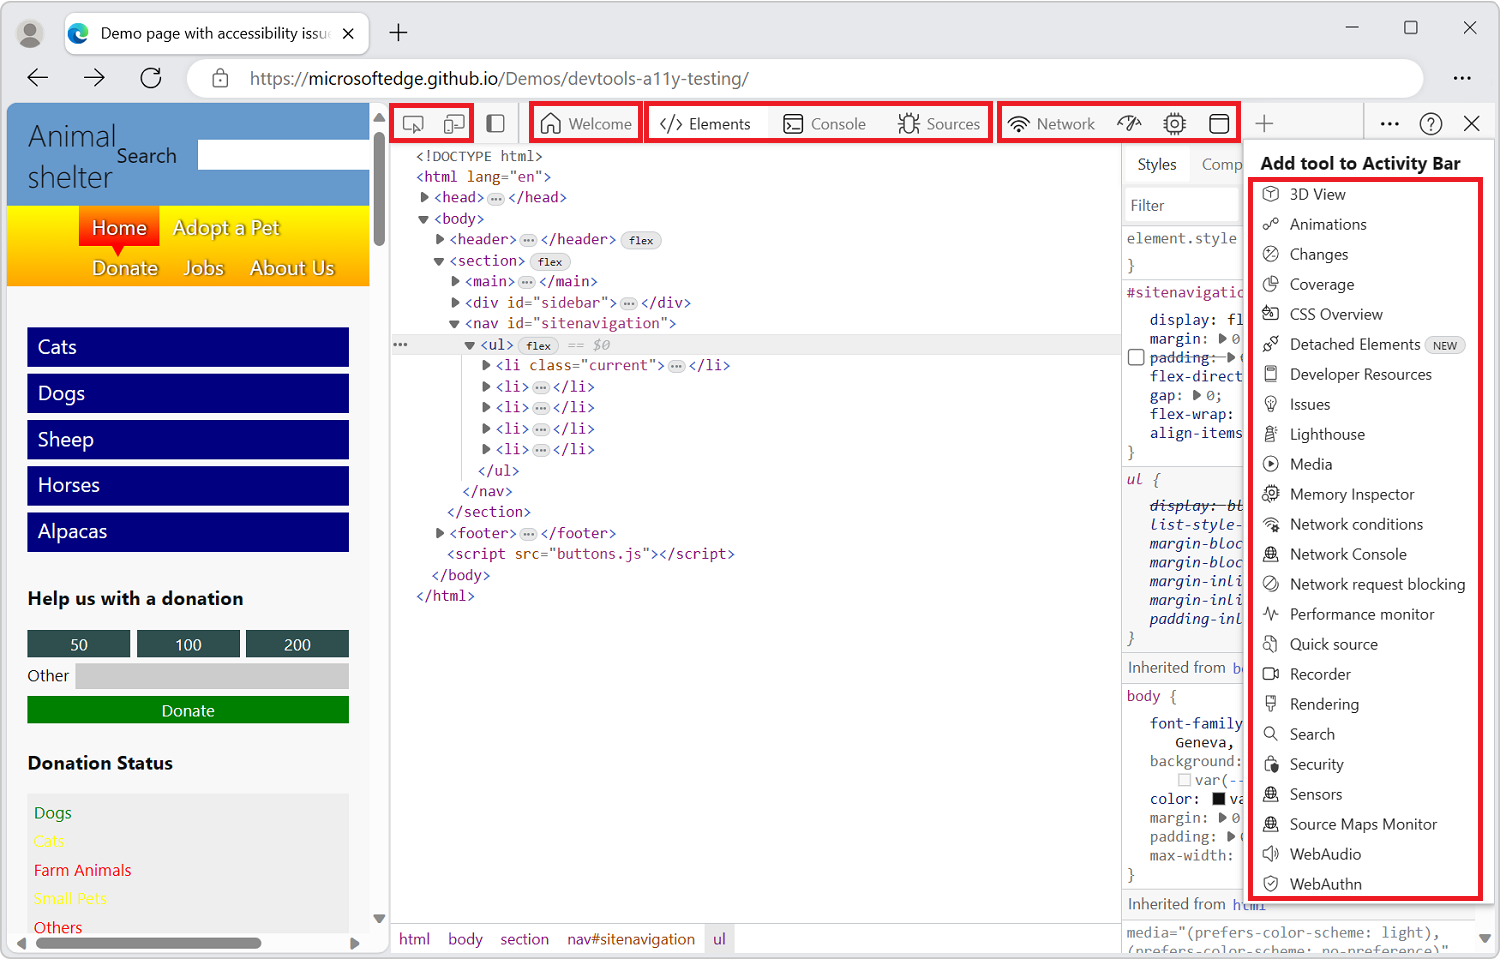
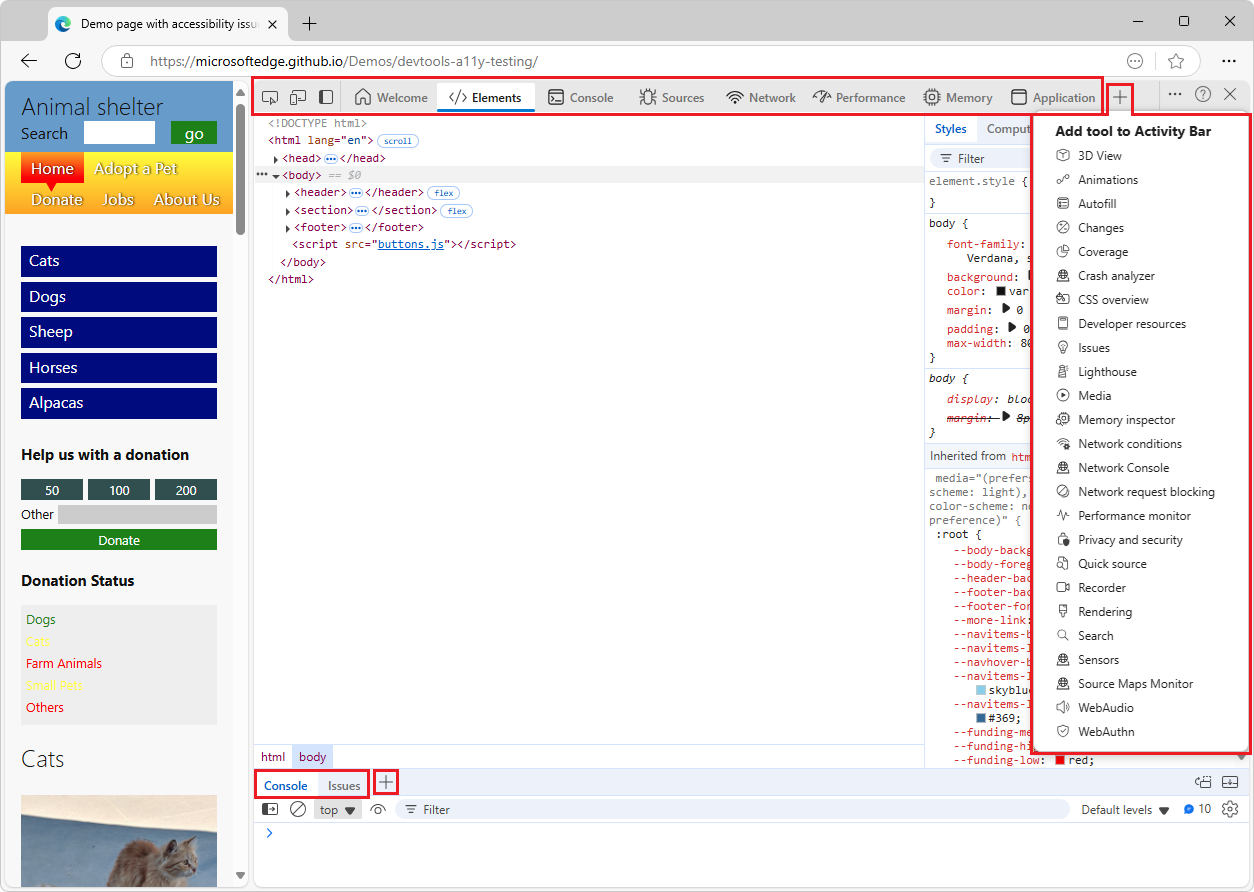
group default tools info together

Changed region(s): [[0.0, 0.0, 1.0, 0.9989]]

diff --git a/microsoft-edge/devtools-guide-chromium/about-tools.md b/microsoft-edge/devtools-guide-chromium/about-tools.md
@@ -6,47 +6,34 @@ ms.author: msedgedevrel
 ms.topic: conceptual
 ms.service: microsoft-edge
 ms.subservice: devtools
-ms.date: 02/25/2025
+ms.date: 03/24/2025
 ---
 # About the list of tools
 
-DevTools provides more than 30 tools, consisting of _Default tools_ and _More tools_:
-
-* **Default tools:**
-   * ![Inspect tool icon](./about-tools-images/inspect-tool-icon-light-theme.png) **Inspect tool**
-   * ![Device Emulation icon](./about-tools-images/device-emulation-icon-light-theme.png) **Device Emulation**
-   * ![Welcome icon](./about-tools-images/welcome-icon.png) **Welcome**
-   * ![Elements icon](./about-tools-images/elements-icon.png) **Elements**
-   * ![Console icon](./about-tools-images/console-icon.png) **Console**
-   * ![Sources icon](./about-tools-images/sources-icon.png) **Sources**
-   * ![Network icon](./about-tools-images/network-icon.png) **Network**
-   * ![Performance icon](./about-tools-images/performance-icon.png) **Performance**
-   * ![Memory icon](./about-tools-images/memory-icon.png) **Memory**
-   * ![Application icon](./about-tools-images/application-icon.png) **Application**
-
-   ![The default tools, including two icons and eight tabs in the Activity Bar](./about-tools-images/all-default-tools.png)
-
-   The **Elements**, **Console**, and **Sources** tools (tabs) are permanent, in the **Activity Bar**.  The other tool tabs can be removed, or moved down to the **Quick View** toolbar.
-
-* **More tools:**
-   * Additional optional tools that can be added to the **Activity bar**, listed in the **More tools** (![More Tools icon](./about-tools-images/more-tools-icon-light-theme.png)) menu, such as the **3D View** tool.
-
-
-The following features are additional ways to access the tools:
-
-*  The **Quick View** panel is an additional toolbar and area to hold tools, below or to the right of the **Activity Bar** panel.
-*  The **Command Menu** is a way to directly use features of tools.
-*  The **Settings** pages can turn on additional features of tools.
+DevTools provides more than 30 tools, consisting of _Default tools_ and _More tools_.
 
 
 <!-- ====================================================================== -->
-## Overview of all tools
+## Default tools
 
-Microsoft Edge DevTools includes the following tools.
+By default, the following tools are listed in the **Activity bar** at the top of DevTools:
+
+* ![Inspect tool icon](./about-tools-images/inspect-tool-icon-light-theme.png) **Inspect tool**
+* ![Device Emulation icon](./about-tools-images/device-emulation-icon-light-theme.png) **Device Emulation**
+* ![Welcome icon](./about-tools-images/welcome-icon.png) **Welcome**
+* ![Elements icon](./about-tools-images/elements-icon.png) **Elements**
+* ![Console icon](./about-tools-images/console-icon.png) **Console**
+* ![Sources icon](./about-tools-images/sources-icon.png) **Sources**
+* ![Network icon](./about-tools-images/network-icon.png) **Network**
+* ![Performance icon](./about-tools-images/performance-icon.png) **Performance**
+* ![Memory icon](./about-tools-images/memory-icon.png) **Memory**
+* ![Application icon](./about-tools-images/application-icon.png) **Application**
+
+![The default tools, including two icons and eight tabs in the Activity Bar](./about-tools-images/all-default-tools.png)
 
 
 <!-- ------------------------------ -->
-#### Default tools
+#### Overview of the default tools
 
 | Tool | Purpose | Article |
 | --- | --- | --- |
@@ -61,9 +48,19 @@ Microsoft Edge DevTools includes the following tools.
 | ![Memory icon](./about-tools-images/memory-icon.png) **Memory** | Find memory issues that affect page performance, including memory leaks, memory bloat, and frequent garbage collections. | [Fix memory problems](memory-problems/index.md) |
 | ![Application icon](./about-tools-images/application-icon.png) **Application** | Use the **Application** tool to manage storage for web app pages, including manifest, service workers, local storage, cookies, cache storage, and background services. | [The Application tool, to manage storage](storage/application-tool.md) |
 
+The **Elements**, **Console**, and **Sources** tools (tabs) are permanent, in the **Activity Bar**.  The other tool tabs can be removed, or moved down to the **Quick View** toolbar.
+
+
+<!-- ====================================================================== -->
+## More tools
+
+The **More tools** (![More Tools icon](./about-tools-images/more-tools-icon-light-theme.png)) button on the **Activity bar** lists additional, optional tools that can be added to the **Activity bar**.
+
+There's also a **More tools** (![More Tools icon](./about-tools-images/more-tools-icon-light-theme.png)) button on the **Quick View** toolbar at the bottom of DevTools.  To show or hide the **Quick View** panel, press **Esc**; or click **Customize and control DevTools** (**...**) in the upper right, and then click **Toggle Quick View panel**.
+
 
 <!-- ------------------------------ -->
-#### More tools
+#### Overview of tools in the More tools menu
 
 | Tool | Purpose | Article |
 | --- | --- | --- |
@@ -93,15 +90,23 @@ Microsoft Edge DevTools includes the following tools.
 | **WebAudio** | Use the **WebAudio** tool to monitor WebAudio traffic.  The **WebAudio** tool uses the WebAudio API. | [WebAudio tool](webaudio/webaudio-tool.md) |
 | **WebAuthn** | Use the **WebAuthn** tool to create and interact with software-based virtual authenticators. | [Emulate authenticators and debug WebAuthn](webauthn/index.md) |
 
-
-<!-- ---------- -->
-###### The More tools menus
-
 The **More tools** (**+**) menu in the **Activity Bar** and in the **Quick View** toolbar is dynamic: it omits any tab tools that are open on that toolbar.
 
 
-<!-- ------------------------------ -->
-#### Experimental tools
+<!-- ====================================================================== -->
+## Additional ways to access the tools
+
+The following features are additional ways to access the tools:
+
+* The **Quick View** panel is an additional toolbar and area to hold tools, below or to the right of the **Activity Bar** panel.
+
+* The **Command Menu** is a way to directly use features of tools.
+
+* The **Settings** pages can turn on additional features of tools.
+
+
+<!-- ====================================================================== -->
+## Experimental tools
 
 Microsoft Edge DevTools potentially includes additional tools, if you select the experiment's check box in DevTools **Settings > Experiments**.  For example:
 
